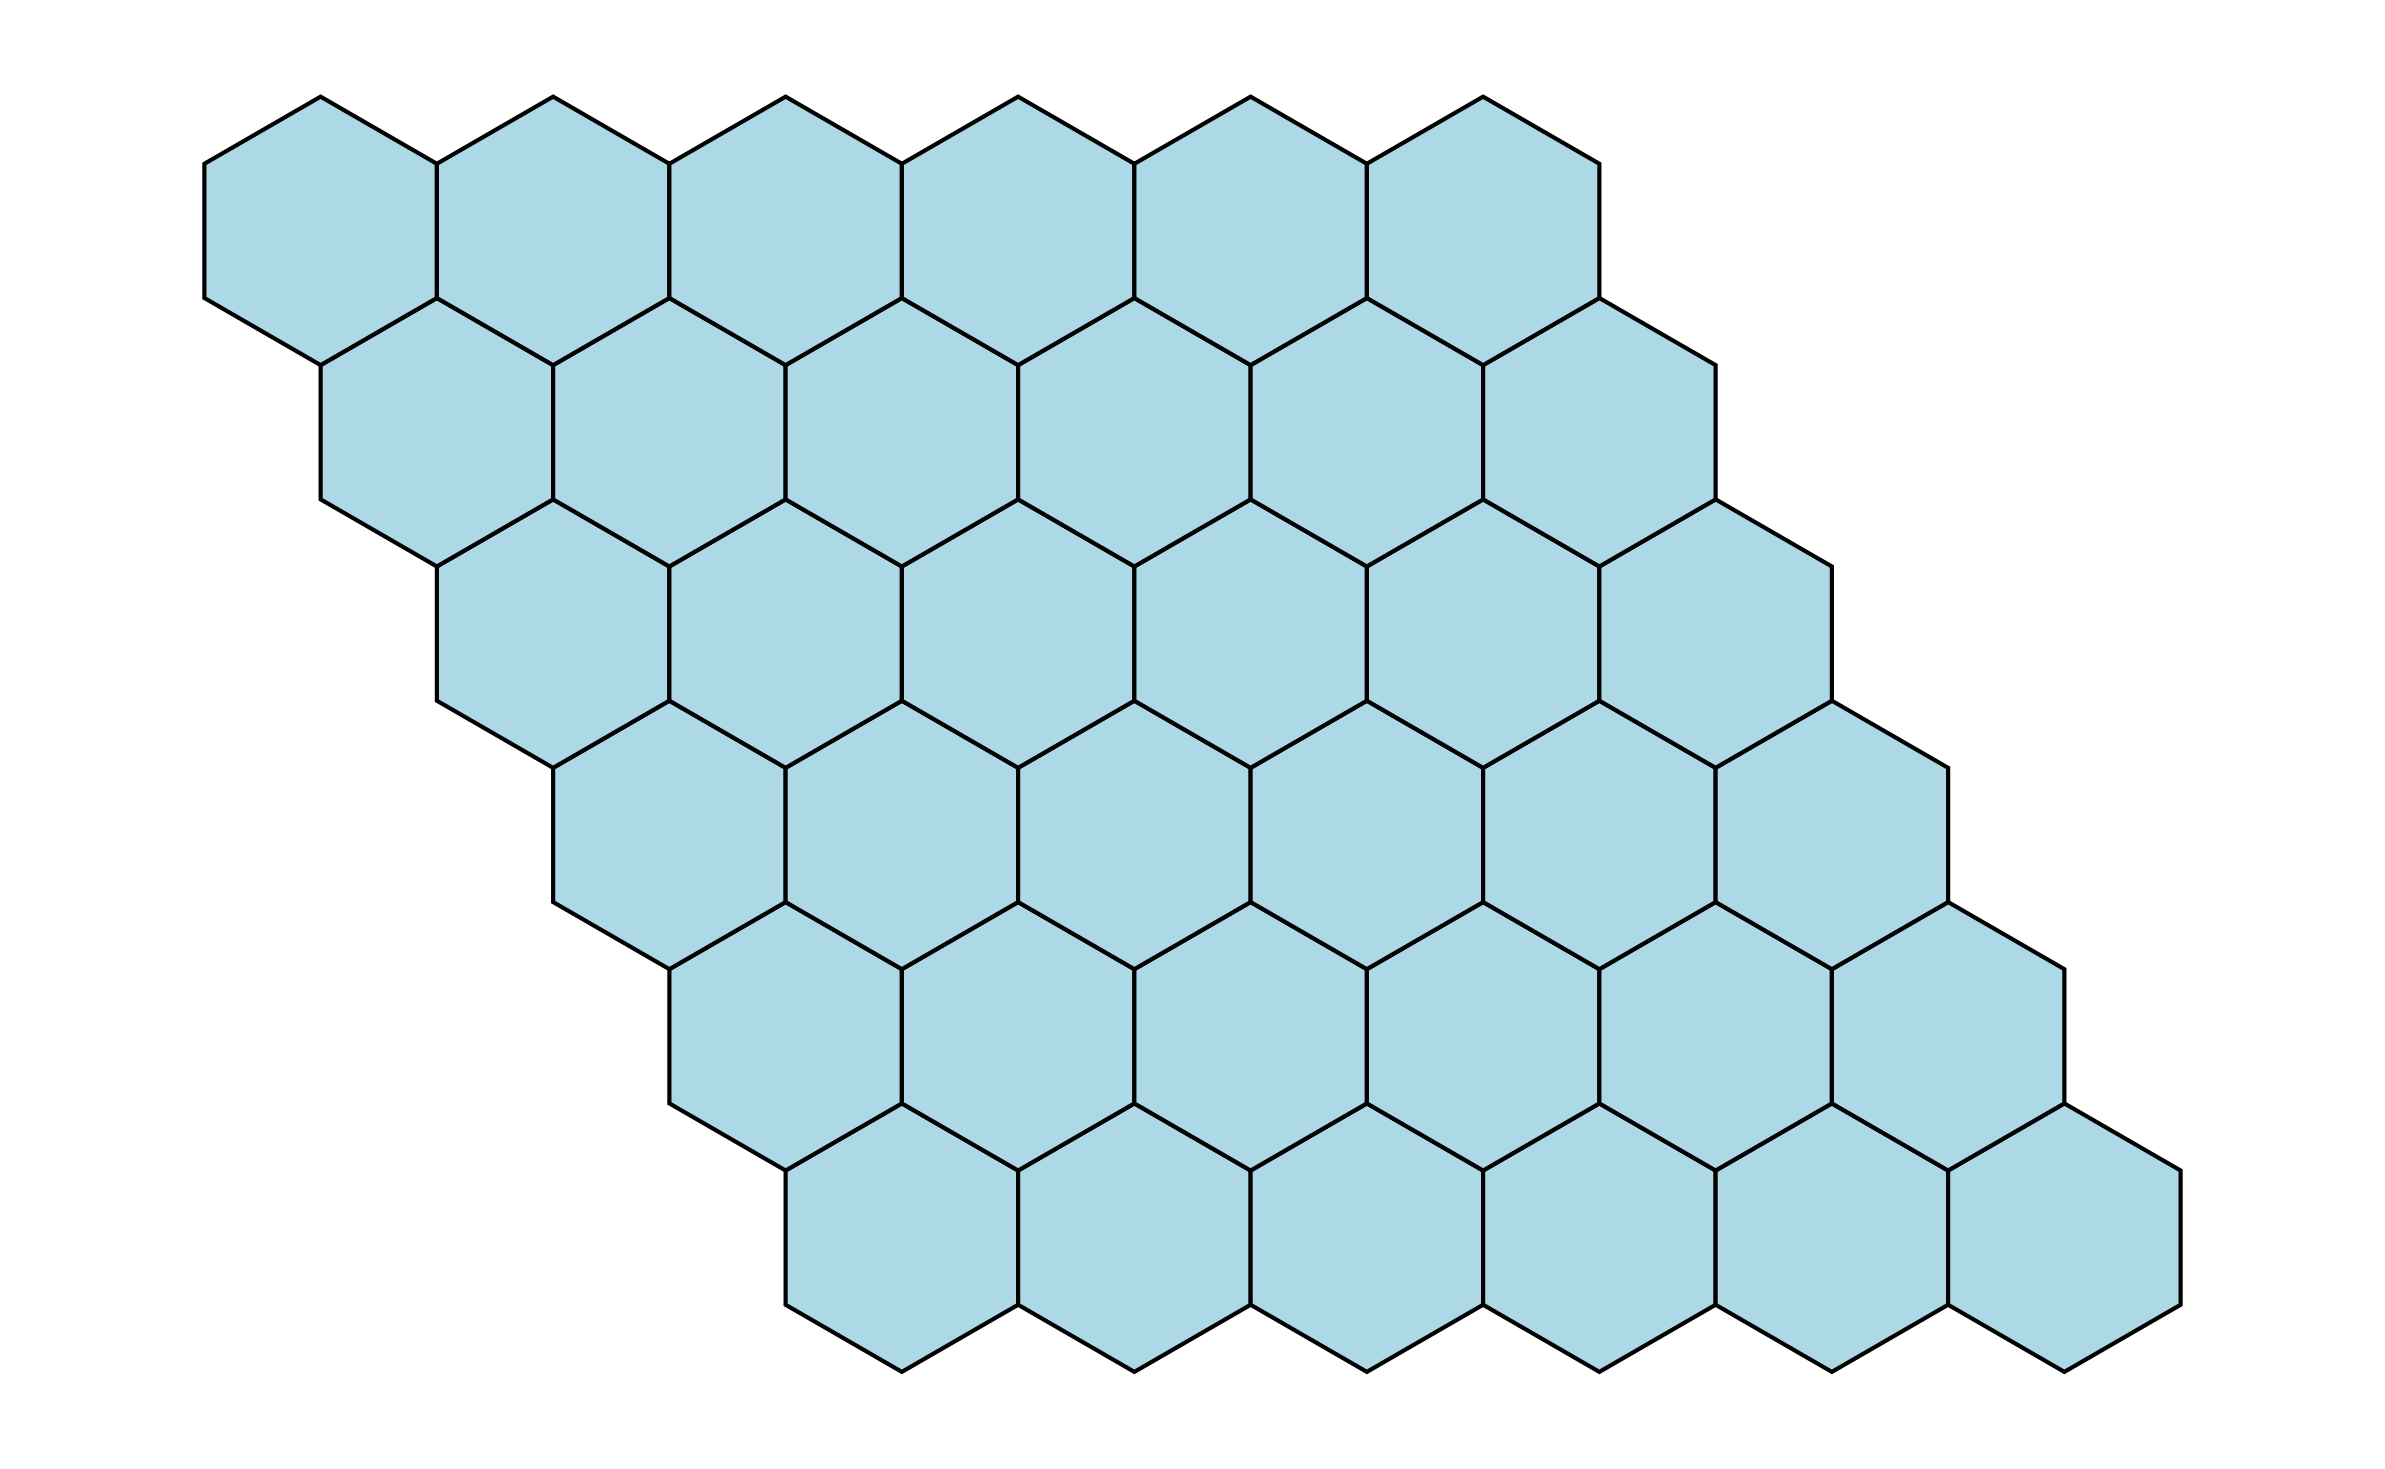
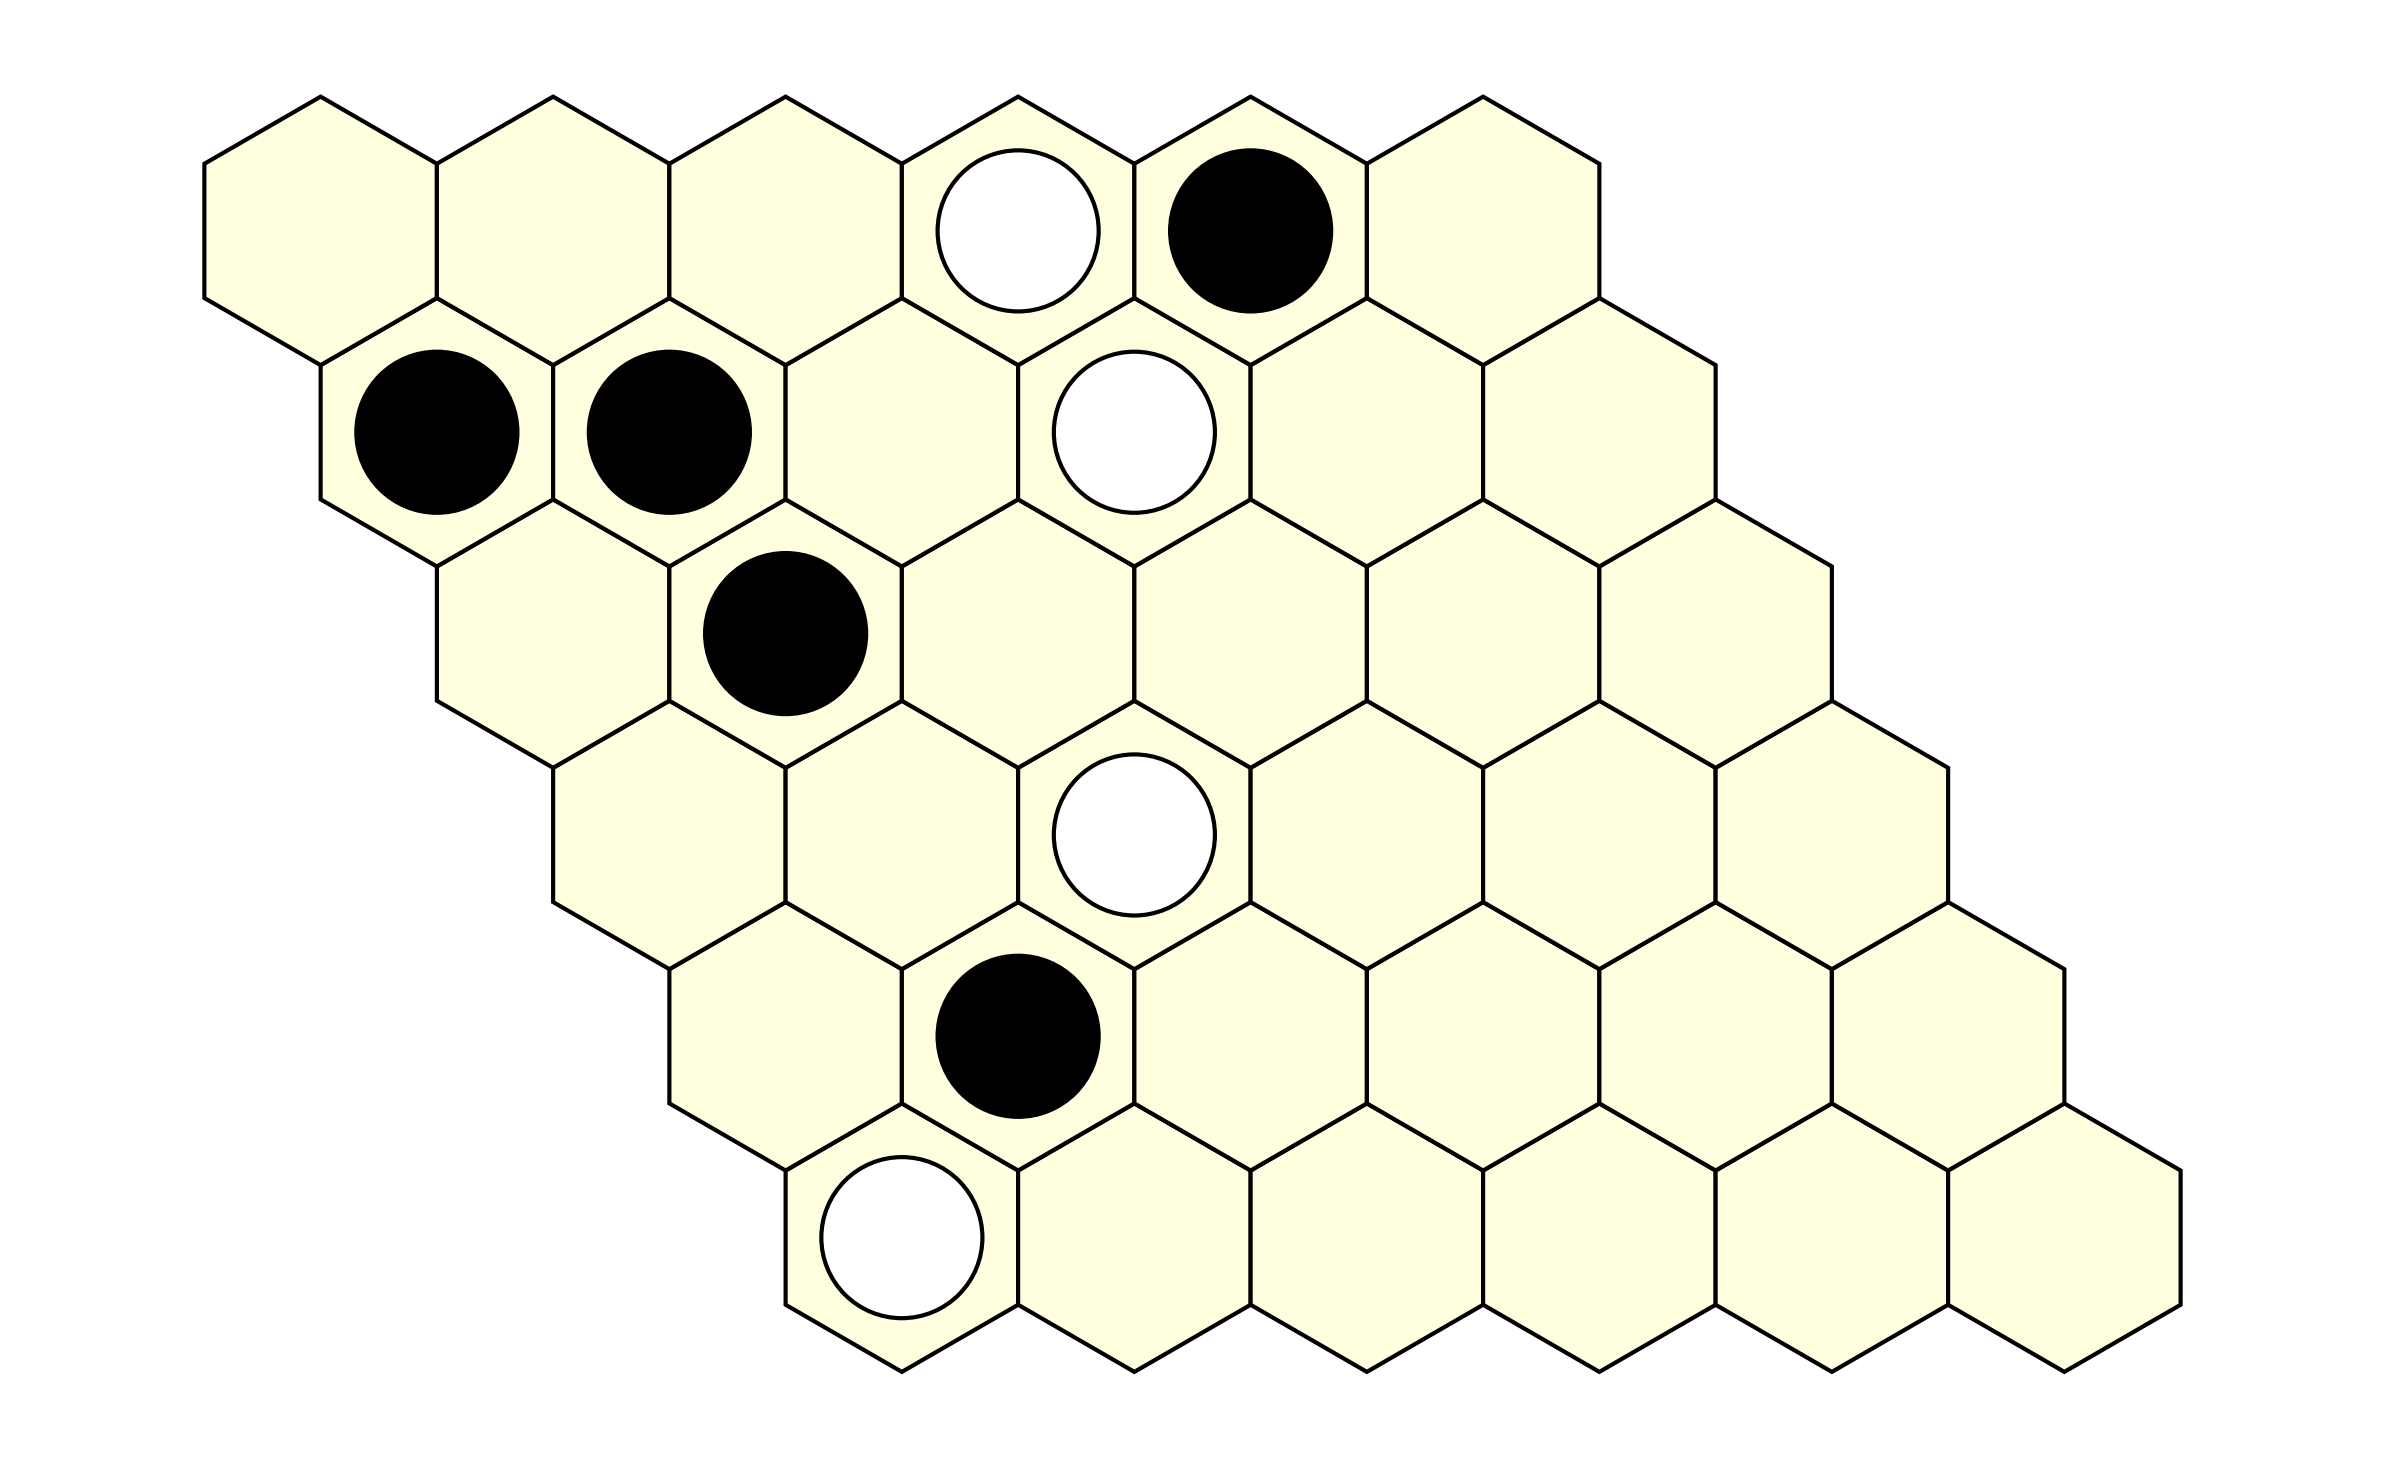
Plot board state from literals

diff --git a/tsetlin/exploration/exploration.py b/tsetlin/exploration/exploration.py
@@ -2,7 +2,7 @@
 
 import numpy as np
 import matplotlib.pyplot as plt
-from matplotlib.patches import RegularPolygon
+from matplotlib.patches import RegularPolygon, Circle
 
 from tsetlin.utils import UtilsTM, UtilsTournament, UtilsHex
 from pathlib import Path
@@ -136,15 +136,27 @@ def game_lengths():
     plt.savefig(filepath, dpi=300)  # Change filename and dpi as needed
     plt.close()  # Close the plot to free resources
 
-def hex_plot():
+def hex_plot(literals: list[int], boardsize: int):
     # Plot a hexagonal grid
     # Later to be used to visualise all good things Hex
     # Hexagonal Grid logic from: https://www.redblobgames.com/grids/hexagons/
     # IDEAS: plot all pieces/literals, step through games interactively, see other stats on board/around plot too?
-    # IDEAS: interactive to let me define templates visually?
+    # Help Adding text: https://stackoverflow.com/questions/46525981/how-to-plot-x-y-z-coordinates-in-the-shape-of-a-hexagonal-grid/46526761#46526761
+
+    # Get the literals for each player
+    literals_per_player = boardsize**2
+    black_literals = literals[:literals_per_player]
+    white_literals = literals[literals_per_player:]
+    print(black_literals)
+    print(white_literals)
+
+    # Set up the hex board
+    cell_positions = np.zeros(shape=(literals_per_player, 2), dtype=float)
+    cell_color = 'lightyellow'
+    piece_colors = ['black', 'white']
+    grid_color = 'black'
 
     # Set up the figure
-    boardsize = 6
     hex_radius = 1
     fig, ax = plt.subplots(figsize=(10, 10))
 
@@ -153,7 +165,6 @@ def hex_plot():
     dx = np.sqrt(3) * hex_radius
 
     # Calculate the center position for each hex cell
-    cell_positions = np.zeros(shape=(boardsize*boardsize, 2), dtype=float)
     for y in range(boardsize):
         for x in range(boardsize):
             i = UtilsHex.coordinates_2d_to_1d(x, y, boardsize)
@@ -168,9 +179,23 @@ def hex_plot():
         for x in range(boardsize):
             i = UtilsHex.coordinates_2d_to_1d(x, y, boardsize)
             position = cell_positions[i]
+
+            # Plot the grid
             hexagon = RegularPolygon(position, numVertices=6, radius=hex_radius,
-                                     orientation=0, edgecolor='black', facecolor='lightblue')
+                                     orientation=0, edgecolor=grid_color, facecolor=cell_color)
             ax.add_patch(hexagon)
+
+            # Plot any piece
+            player = 0 if black_literals[i] else 1 if white_literals[i] else -1
+            if player != -1:
+                piece = Circle(position, radius=hex_radius * 0.6,
+                               edgecolor=grid_color, facecolor=piece_colors[player])
+                ax.add_patch(piece)
+
+
+
+    # Plot the axis labels for hex
+
 
 
     # Calculate the width and height of the grid
@@ -191,4 +216,5 @@ def hex_plot():
     plt.savefig(filepath, dpi=300, bbox_inches='tight')  # Change filename and dpi as needed
     plt.close()  # Close the plot to free resources
 
-hex_plot()
+boardsize = 6
+hex_plot(UtilsTM.Literals.make_random_board(boardsize), boardsize)
